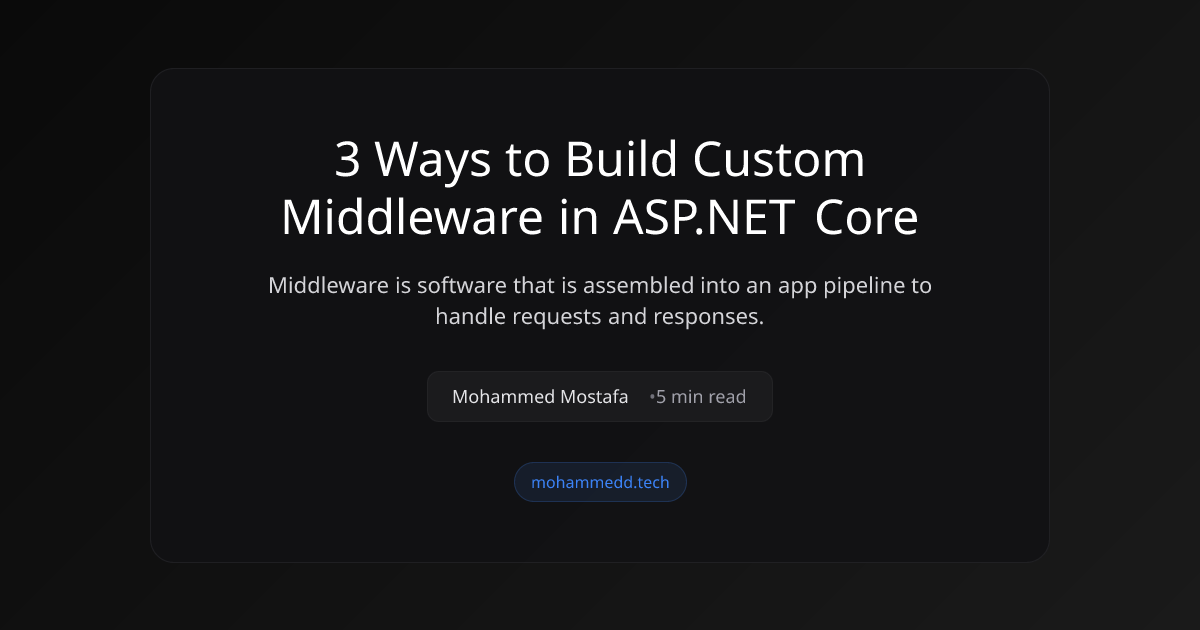
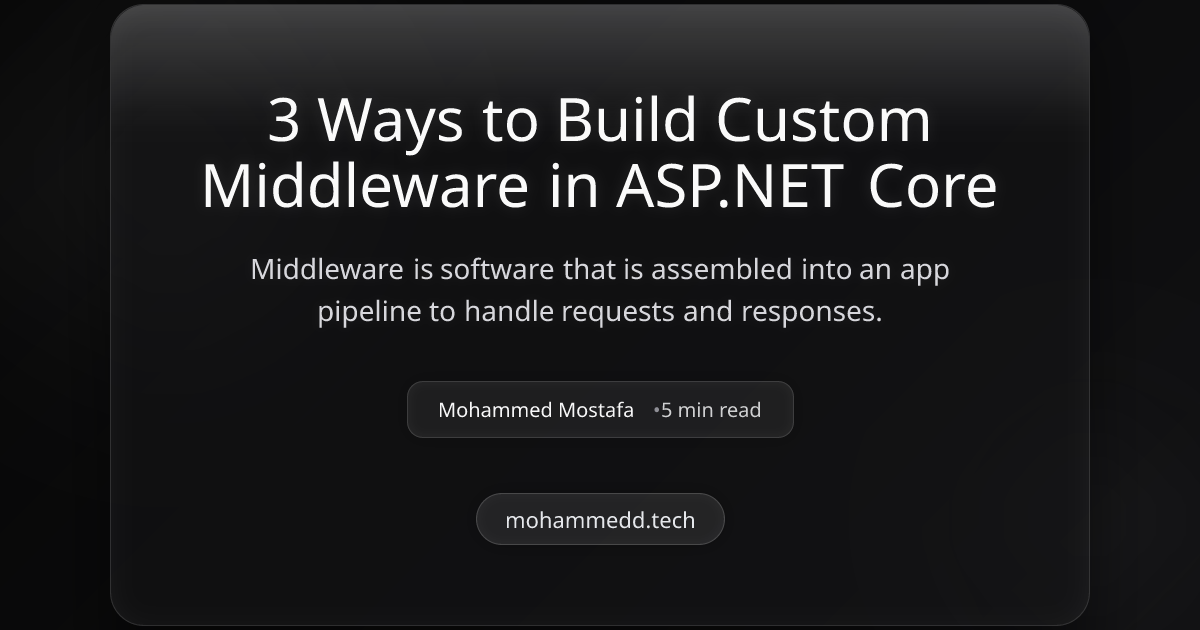
up

diff --git a/lib/og-generator.tsx b/lib/og-generator.tsx
@@ -14,41 +14,89 @@ export async function generateOGImage(blogPost: BlogPostMeta): Promise<Buffer> {
     (
       <div
         style={{
-          background: 'linear-gradient(135deg, #0a0a0a 0%, #1a1a1a 100%)',
           width: '100%',
           height: '100%',
           display: 'flex',
-          flexDirection: 'column',
           justifyContent: 'center',
           alignItems: 'center',
-          padding: '60px',
           fontFamily: 'Inter, sans-serif',
+          background: 'linear-gradient(135deg, #050505 0%, #111113 100%)',
+          position: 'relative',
+          overflow: 'hidden',
         }}
       >
-        {/* Main content container */}
+        {/* Soft glossy light blobs */}
         <div
           style={{
-            background: 'rgba(17, 17, 19, 0.9)',
-            border: '1px solid rgba(63, 63, 70, 0.3)',
-            borderRadius: '24px',
-            padding: '60px',
-            maxWidth: '900px',
+            position: 'absolute',
+            width: '700px',
+            height: '700px',
+            borderRadius: '50%',
+            background: 'radial-gradient(circle, rgba(255,255,255,0.08), transparent 70%)',
+            top: '-180px',
+            left: '-180px',
+            filter: 'blur(60px)',
+          }}
+        />
+        <div
+          style={{
+            position: 'absolute',
+            width: '500px',
+            height: '500px',
+            borderRadius: '50%',
+            background: 'radial-gradient(circle, rgba(120,120,120,0.08), transparent 70%)',
+            bottom: '-140px',
+            right: '-140px',
+            filter: 'blur(40px)',
+          }}
+        />
+
+        {/* Main glossy glass card */}
+        <div
+          style={{
             width: '100%',
+            maxWidth: '980px',
+            padding: '80px 70px',
+            borderRadius: '34px',
+            background: 'rgba(20,20,22,0.55)',
+            border: '1px solid rgba(255,255,255,0.12)',
+            backdropFilter: 'blur(25px) brightness(1.15)',
+            WebkitBackdropFilter: 'blur(25px) brightness(1.15)',
+            boxShadow:
+              '0 20px 60px rgba(0,0,0,0.45), inset 0 2px 25px rgba(255,255,255,0.05)',
+            position: 'relative',
+            textAlign: 'center',
             display: 'flex',
             flexDirection: 'column',
             alignItems: 'center',
-            textAlign: 'center',
           }}
         >
-          {/* Blog title */}
+
+          {/* Glossy highlight streak */}
+          <div
+            style={{
+              position: 'absolute',
+              top: 0,
+              left: 0,
+              right: 0,
+              height: '140px',
+              background:
+                'linear-gradient(180deg, rgba(255,255,255,0.20) 0%, rgba(255,255,255,0.02) 80%, transparent 100%)',
+              borderRadius: '34px 34px 0 0',
+              pointerEvents: 'none',
+            }}
+          />
+
+          {/* Title */}
           <h1
             style={{
-              fontSize: '48px',
-              fontWeight: 'bold',
-              color: '#ffffff',
-              margin: '0 0 24px 0',
-              lineHeight: '1.2',
-              maxWidth: '800px',
+              fontSize: '60px',
+              fontWeight: '900',
+              color: '#fafafa',
+              margin: '0 0 30px 0',
+              lineHeight: '1.1',
+              maxWidth: '820px',
+              textShadow: '0 0 12px rgba(255,255,255,0.1)',
             }}
           >
             {blogPost.title}
@@ -57,56 +105,57 @@ export async function generateOGImage(blogPost: BlogPostMeta): Promise<Buffer> {
           {/* Description */}
           <p
             style={{
-              fontSize: '22px',
-              color: '#d4d4d8',
-              margin: '0 0 40px 0',
-              lineHeight: '1.4',
-              maxWidth: '700px',
+              fontSize: '28px',
+              color: '#d7d7dc',
+              margin: '0 0 50px 0',
+              lineHeight: '1.5',
+              maxWidth: '740px',
+              textShadow: '0 0 8px rgba(255,255,255,0.06)',
             }}
           >
             {blogPost.description}
           </p>
 
-          {/* Metadata section */}
+          {/* Metadata pill — soft matte glass */}
           <div
             style={{
               display: 'flex',
-              alignItems: 'center',
-              justifyContent: 'center',
-              gap: '20px',
-              fontSize: '18px',
-              color: '#a1a1aa',
-              background: 'rgba(39, 39, 42, 0.4)',
-              padding: '12px 24px',
-              borderRadius: '12px',
-              border: '1px solid rgba(63, 63, 70, 0.2)',
+              gap: '18px',
+              fontSize: '20px',
+              color: '#cfd0d1',
+              padding: '14px 30px',
+              borderRadius: '16px',
+              background: 'rgba(255,255,255,0.06)',
+              border: '1px solid rgba(255,255,255,0.12)',
+              boxShadow:
+                'inset 0 0 10px rgba(255,255,255,0.06), 0 0 18px rgba(0,0,0,0.2)',
             }}
           >
-            <span style={{ 
-              fontWeight: '600',
-              color: '#e4e4e7'
-            }}>
+            <span style={{ color: '#f7f7f8', fontWeight: '600' }}>
               {blogPost.author || 'Mohammed Mostafa'}
             </span>
+
             {blogPost.readTime && (
               <>
-                <span style={{ color: '#71717a' }}>•</span>
+                <span style={{ color: '#8f8f96' }}>•</span>
                 <span>{blogPost.readTime} read</span>
               </>
             )}
           </div>
 
-          {/* Brand section */}
+          {/* Brand */}
           <div
             style={{
-              marginTop: '40px',
-              fontSize: '16px',
-              color: '#3b82f6',
-              fontWeight: '500',
-              background: 'rgba(59, 130, 246, 0.1)',
-              padding: '8px 16px',
-              borderRadius: '20px',
-              border: '1px solid rgba(59, 130, 246, 0.2)',
+              marginTop: '55px',
+              fontSize: '22px',
+              fontWeight: '700',
+              color: '#e5e7eb',
+              padding: '10px 28px',
+              borderRadius: '9999px',
+              background: 'rgba(255,255,255,0.08)',
+              border: '1px solid rgba(255,255,255,0.15)',
+              boxShadow:
+                'inset 0 0 10px rgba(255,255,255,0.05), 0 0 18px rgba(0,0,0,0.25)',
             }}
           >
             mohammedd.tech

diff --git a/scripts/generate-og-images.ts b/scripts/generate-og-images.ts
@@ -27,6 +27,13 @@ const BLOG_POSTS = [
     link: '/blog/boxing-and-unboxing-in-csharp',
     uid: 'blog-3',
   },
+  {
+    title: 'SimuKernel: OS Concepts Explained',
+    description:
+      'SimuKernel is a kernel simulator that allows you to explore the internals of an operating system.',
+    link: '/blog/simukernel-os-concepts-explained',
+    uid: 'blog-4',
+  },
 ]
 
 const OUTPUT_DIR = path.join(process.cwd(), 'public', 'og')
